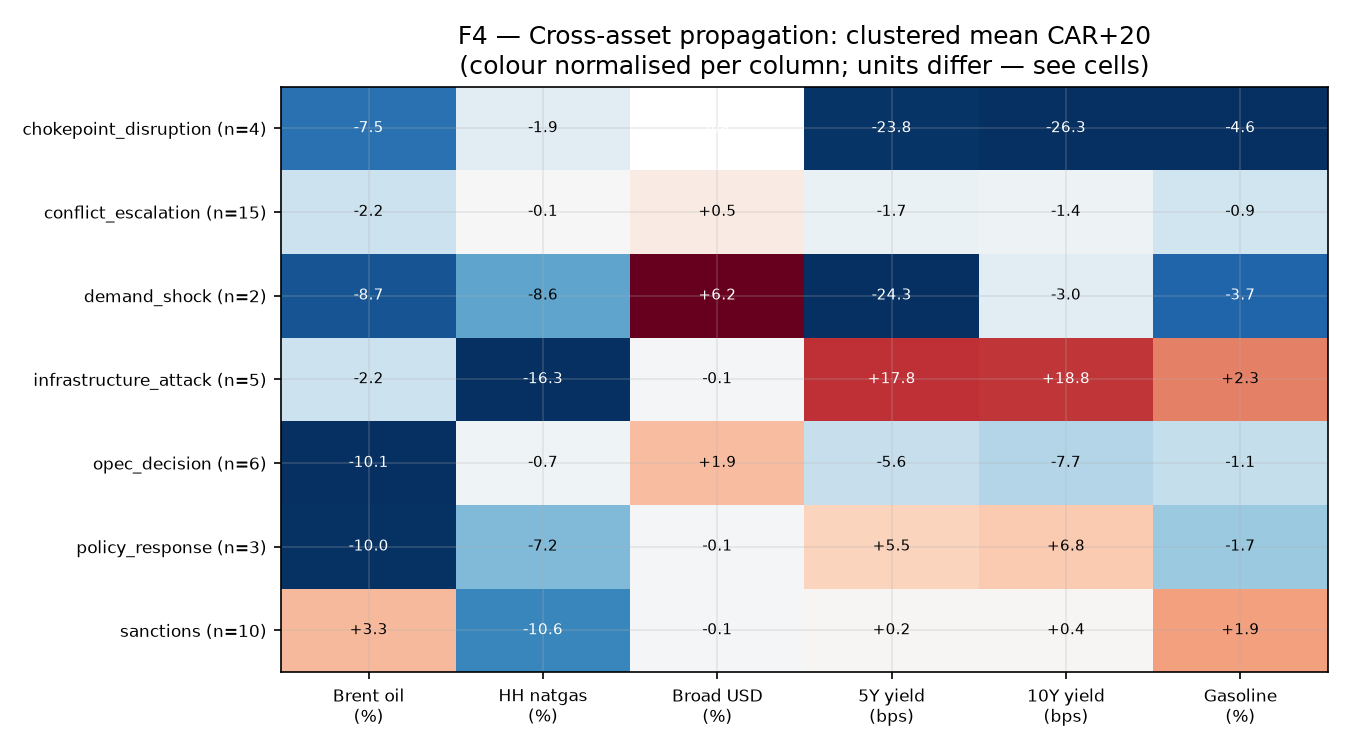
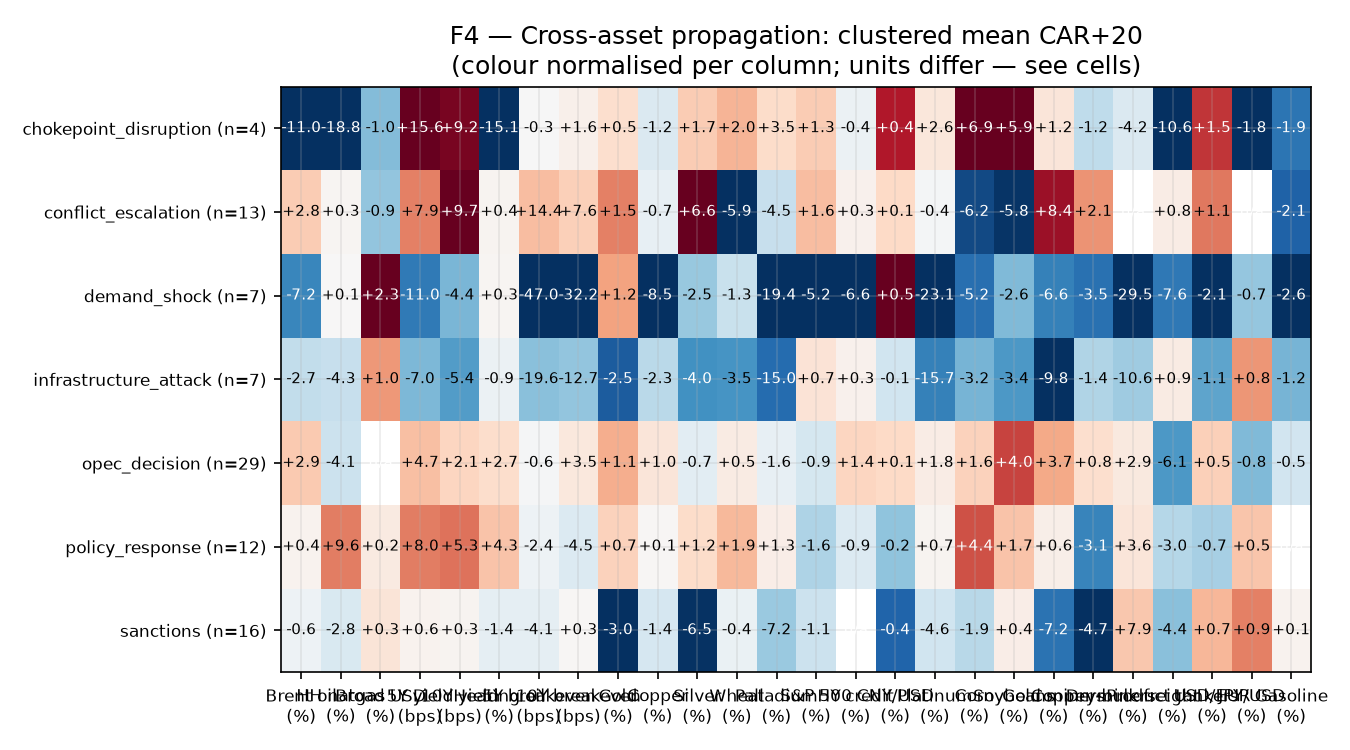
V5.2: repro.sh + DATA_DICTIONARY + figures regenerated for the new scope
repro.sh (now 22 steps): added the deferred V1 value-chain fetch (fuels/petchem/
fertilizer PPIs, TTF, JKM) before derive_signals so the cracks compute, plus the
V1 chain view and the V3 cross-chain battery -- a from-zero rebuild now reproduces
the value-chain + cross-chain numbers too.

DATA_DICTIONARY.md regenerated (data-driven) -- now documents the value-chain
series (cracks, DGASUSGULF, propane, petchem/fertilizer PPIs, TTF, JKM).

figures.py extended to 9: F7 value-chain hop correlation heatmap, F8 corpus growth
curve, F9 calibration reliability plot (static PNGs for reports, alongside the
dashboard's live Plotly versions).

diff --git a/src/figures.py b/src/figures.py
@@ -192,6 +192,68 @@ def f6_policy_vs_conflict(clustered):
     fig.tight_layout(); fig.savefig(FIGDIR / "f6_policy_vs_conflict.png"); plt.close(fig)
 
 
+def f7_chain_heatmap():
+    """V5.2 -- value-chain hop-by-hop correlation heatmap (upstream x downstream), from chain_view.json."""
+    import json
+    hops = json.loads((ROOT / "data" / "chain_view.json").read_text()).get("hops", [])
+    hops = [h for h in hops if h.get("result")]
+    if not hops:
+        return
+    ups = list(dict.fromkeys(h["up_label"] for h in hops))
+    downs = list(dict.fromkeys(h["down_label"] for h in hops))
+    grid = np.full((len(downs), len(ups)), np.nan)
+    for h in hops:
+        grid[downs.index(h["down_label"]), ups.index(h["up_label"])] = h["result"]["corr"]
+    fig, ax = plt.subplots(figsize=(8, 5.5))
+    ax.imshow(grid, cmap="RdBu_r", vmin=-1, vmax=1, aspect="auto")
+    ax.set_xticks(range(len(ups))); ax.set_xticklabels(ups, fontsize=8, rotation=30, ha="right")
+    ax.set_yticks(range(len(downs))); ax.set_yticklabels(downs, fontsize=8)
+    for h in hops:
+        i, j = downs.index(h["down_label"]), ups.index(h["up_label"])
+        ax.text(j, i, f"{h['result']['corr']:+.2f}\n{h['result']['strength'][:4]}", ha="center",
+                va="center", fontsize=7, color="black" if abs(grid[i, j]) < 0.6 else "white")
+    ax.set_title("F7 — Value chain: hop-by-hop return correlation\n"
+                 "(upstream → downstream; cadence per hop in chain_report.txt)")
+    fig.tight_layout(); fig.savefig(FIGDIR / "f7_chain_heatmap.png"); plt.close(fig)
+
+
+def f8_corpus_growth(conn):
+    """V5.2 -- cumulative verified events over time (the corpus accreting)."""
+    dates = [d for (d,) in conn.execute(
+        "SELECT event_date FROM events WHERE event_date IS NOT NULL ORDER BY event_date")]
+    x = [pd.Timestamp(d) for d in dates]
+    fig, ax = plt.subplots(figsize=(8, 4.5))
+    ax.step(x, range(1, len(x) + 1), where="post", color="#2c7fb8", lw=2)
+    ax.set_ylabel("cumulative verified events"); ax.set_xlabel("event date")
+    ax.set_title(f"F8 — Corpus growth ({len(x)} verified events)")
+    ax.grid(alpha=0.3)
+    fig.tight_layout(); fig.savefig(FIGDIR / "f8_corpus_growth.png"); plt.close(fig)
+
+
+def f9_calibration():
+    """V5.2 -- reliability plot from the forecast log (observed vs forecast, vs the perfect diagonal)."""
+    import json
+    p = ROOT / "data" / "calibration_report.json"
+    rep = json.loads(p.read_text()) if p.exists() else {}
+    bins = (rep.get("overall") or {}).get("reliability", []) if rep.get("ran") else []
+    if not bins:
+        return
+    fig, ax = plt.subplots(figsize=(5.5, 5.5))
+    ax.plot([0, 1], [0, 1], ls="--", color="grey", lw=1, label="perfect calibration")
+    ax.plot([b["mean_forecast"] for b in bins], [b["observed"] for b in bins], "-o",
+            color="#2c7fb8", label="engine")
+    for b in bins:
+        ax.annotate(f"n={b['n']}", (b["mean_forecast"], b["observed"]), fontsize=7,
+                    textcoords="offset points", xytext=(5, -8))
+    o = rep.get("overall", {})
+    ax.set_xlim(0, 1); ax.set_ylim(0, 1)
+    ax.set_xlabel("forecast probability"); ax.set_ylabel("observed frequency")
+    ax.set_title(f"F9 — Calibration (n={o.get('n')}, Brier {o.get('brier')}, "
+                 f"skill {o.get('skill_vs_base')})")
+    ax.legend(fontsize=9); ax.grid(alpha=0.3)
+    fig.tight_layout(); fig.savefig(FIGDIR / "f9_calibration.png"); plt.close(fig)
+
+
 def main():
     FIGDIR.mkdir(parents=True, exist_ok=True)
     conn = sqlite3.connect(DB)
@@ -202,6 +264,9 @@ def main():
     f4_propagation_heatmap(conn)
     f5_quiet_vs_corpus(conn, clustered)
     f6_policy_vs_conflict(clustered)
+    f7_chain_heatmap()            # V5.2
+    f8_corpus_growth(conn)        # V5.2
+    f9_calibration()              # V5.2
     conn.close()
     pngs = sorted(p.name for p in FIGDIR.glob("*.png"))
     print(f"Wrote {len(pngs)} figures to {FIGDIR}:")

diff --git a/DATA_DICTIONARY.md b/DATA_DICTIONARY.md
@@ -2,7 +2,18 @@
 
 _Generated from the live schema of `data/oil.db` by `src/data_dictionary.py` — not hand-typed, so it cannot drift from the actual database._
 
-## `edges` — 292 rows
+## `belief_state` — 3 rows
+
+| column | type | not null | pk |
+|---|---|---|---|
+| variable_id | TEXT |  | yes |
+| value | REAL |  |  |
+| as_of | TEXT |  |  |
+| status | TEXT |  |  |
+| method | TEXT |  |  |
+| updated_at | TEXT |  |  |
+
+## `edges` — 7,909 rows
 
 | column | type | not null | pk |
 |---|---|---|---|
@@ -21,7 +32,7 @@ _Generated from the live schema of `data/oil.db` by `src/data_dictionary.py` —
 | units | TEXT |  |  |
 | n_days | INTEGER |  |  |
 
-## `entities` — 32 rows
+## `entities` — 122 rows
 
 | column | type | not null | pk |
 |---|---|---|---|
@@ -30,7 +41,7 @@ _Generated from the live schema of `data/oil.db` by `src/data_dictionary.py` —
 | name | TEXT | yes |  |
 | notes | TEXT |  |  |
 
-## `event_entities` — 154 rows
+## `event_entities` — 664 rows
 
 | column | type | not null | pk |
 |---|---|---|---|
@@ -38,7 +49,7 @@ _Generated from the live schema of `data/oil.db` by `src/data_dictionary.py` —
 | entity_id | TEXT | yes | yes |
 | role | TEXT |  | yes |
 
-## `events` — 52 rows
+## `events` — 293 rows
 
 | column | type | not null | pk |
 |---|---|---|---|
@@ -54,7 +65,7 @@ _Generated from the live schema of `data/oil.db` by `src/data_dictionary.py` —
 | added_at | TEXT |  |  |
 | surprise | INTEGER |  |  |
 
-## `forecasts` — 0 rows
+## `forecasts` — 4 rows
 
 | column | type | not null | pk |
 |---|---|---|---|
@@ -69,7 +80,36 @@ _Generated from the live schema of `data/oil.db` by `src/data_dictionary.py` —
 | outcome | INTEGER |  |  |
 | notes | TEXT |  |  |
 
-## `observations` — 219,286 rows
+## `gaps` — 245 rows
+
+| column | type | not null | pk |
+|---|---|---|---|
+| gap_id | TEXT |  | yes |
+| as_of | TEXT |  |  |
+| anchor_date | TEXT |  |  |
+| subject | TEXT |  |  |
+| engine_call | TEXT |  |  |
+| engine_p | REAL |  |  |
+| priced_ovx | REAL |  |  |
+| priced_ovx_pct | REAL |  |  |
+| gap_direction | TEXT |  |  |
+| horizon_days | INTEGER |  |  |
+| outcome | INTEGER |  |  |
+| brier | REAL |  |  |
+| resolved_at | TEXT |  |  |
+| source_url | TEXT |  |  |
+| notes | TEXT |  |  |
+
+## `library` — 292 rows
+
+| column | type | not null | pk |
+|---|---|---|---|
+| event_id | TEXT |  | yes |
+| event_date | TEXT |  |  |
+| signature | TEXT |  |  |
+| mag_pp | REAL |  |  |
+
+## `observations` — 463,714 rows
 
 | column | type | not null | pk |
 |---|---|---|---|
@@ -79,13 +119,29 @@ _Generated from the live schema of `data/oil.db` by `src/data_dictionary.py` —
 | as_of | TEXT |  | yes |
 | retrieved_at | TEXT |  |  |
 
-## `prices` — 20,142 rows
+## `prices` — 20,152 rows
 
 | column | type | not null | pk |
 |---|---|---|---|
 | date | TIMESTAMP |  |  |
 | price | REAL |  |  |
 | commodity | TEXT |  |  |
+
+## `propagation_edges` — 232 rows
+
+| column | type | not null | pk |
+|---|---|---|---|
+| edge_id | TEXT |  | yes |
+| kind | TEXT |  |  |
+| from_node | TEXT |  |  |
+| to_node | TEXT |  |  |
+| lag | TEXT |  |  |
+| strength | REAL |  |  |
+| ci_lo | REAL |  |  |
+| ci_hi | REAL |  |  |
+| perm_p | REAL |  |  |
+| status | TEXT |  |  |
+| mechanism | TEXT |  |  |
 
 ## `quiet_events` — 6 rows
 
@@ -123,7 +179,7 @@ _Generated from the live schema of `data/oil.db` by `src/data_dictionary.py` —
 | error | REAL |  |  |
 | notes | TEXT |  |  |
 
-## `series` — 213 rows
+## `series` — 384 rows
 
 | column | type | not null | pk |
 |---|---|---|---|
@@ -136,7 +192,22 @@ _Generated from the live schema of `data/oil.db` by `src/data_dictionary.py` —
 | source_url | TEXT |  |  |
 | notes | TEXT |  |  |
 
-## `situation_log` — 71 rows
+## `signals` — 7 rows
+
+| column | type | not null | pk |
+|---|---|---|---|
+| signal_id | TEXT |  | yes |
+| name | TEXT |  |  |
+| mechanism | TEXT |  |  |
+| method | TEXT |  |  |
+| inputs | TEXT |  |  |
+| oos_metric | TEXT |  |  |
+| oos_value | REAL |  |  |
+| status | TEXT |  |  |
+| evidence | TEXT |  |  |
+| updated_at | TEXT |  |  |
+
+## `situation_log` — 553 rows
 
 | column | type | not null | pk |
 |---|---|---|---|
@@ -159,30 +230,71 @@ _Generated from the live schema of `data/oil.db` by `src/data_dictionary.py` —
 | series_id | unit | frequency | source |
 |---|---|---|---|
 | `cftc.mm_net_wti` | contracts | weekly | CFTC |
+| `derived.be_level` | percentile | daily | derived (this repo) |
 | `derived.brent_vol20` | percent | daily | derived (this repo) |
 | `derived.brent_wti_spread` | USD/bbl | daily | derived (this repo) |
 | `derived.brent_wti_spread_z` | sigma | daily | derived (this repo) |
+| `derived.conflict_intensity_pct` | percentile | daily | derived (this repo) |
 | `derived.cot_pct` | percentile | daily | derived (this repo) |
+| `derived.credit_stress` | percentile | daily | derived (this repo) |
 | `derived.curve_2s10s` | percentage points | daily | derived (this repo) |
+| `derived.diesel_crack` | USD/bbl | daily | derived (this repo) |
+| `derived.gasoline_crack` | USD/bbl | daily | derived (this repo) |
 | `derived.inv_sigma` | sigma | daily | derived (this repo) |
+| `derived.ovx_pct` | percentile | daily | derived (this repo) |
+| `derived.real_rate` | percentile | daily | derived (this repo) |
 | `derived.usd_z` | sigma | daily | derived (this repo) |
 | `derived.vix_pct` | percentile | daily | derived (this repo) |
 | `eia.crude_stocks_xspr` | thousand bbl | weekly | EIA |
 | `eia.cushing_stocks` | thousand bbl | weekly | EIA |
 | `eia.refinery_util` | percent | weekly | EIA |
 | `eia.spr_stocks` | thousand bbl | weekly | EIA |
+| `fred.BAMLH0A0HYM2` | percent | daily | FRED |
 | `fred.DCOILBRENTEU` | USD/bbl | daily | FRED |
 | `fred.DCOILWTICO` | USD/bbl | daily | FRED |
+| `fred.DEXCHUS` | CNY/USD | daily | FRED |
+| `fred.DEXJPUS` | JPY/USD | daily | FRED |
+| `fred.DEXUSEU` | USD/EUR | daily | FRED |
+| `fred.DFII10` | percent | daily | FRED |
+| `fred.DGASUSGULF` | USD/gal | daily | FRED |
 | `fred.DGS10` | percent | daily | FRED |
 | `fred.DGS2` | percent | daily | FRED |
 | `fred.DGS5` | percent | daily | FRED |
 | `fred.DHHNGSP` | USD/MMBtu | daily | FRED |
+| `fred.DHOILNYH` | USD/gal | daily | FRED |
+| `fred.DPROPANEMBTX` | USD/gal | daily | FRED |
 | `fred.DTWEXBGS` | index | daily | FRED |
 | `fred.GASREGW` | USD/gallon | weekly | FRED |
+| `fred.OVXCLS` | index | daily | FRED |
+| `fred.PCU325211325211` | index | monthly | FRED |
+| `fred.PCU325311325311` | index | monthly | FRED |
+| `fred.SP500` | index | daily | FRED |
+| `fred.T10YIE` | percent | daily | FRED |
+| `fred.T5YIE` | percent | daily | FRED |
 | `fred.VIXCLS` | index | daily | FRED |
+| `gdelt.tone.hormuz` | tone | daily | GDELT DOC |
+| `gdelt.tone.opec` | tone | daily | GDELT DOC |
 | `gpr.GPRD` | index | daily | Caldara & Iacoviello, Geopolitical Risk index (matteoiacoviello.com) |
 | `gpr.GPRD_ACT` | index | daily | Caldara & Iacoviello, Geopolitical Risk index (matteoiacoviello.com) |
 | `gpr.GPRD_THREAT` | index | daily | Caldara & Iacoviello, Geopolitical Risk index (matteoiacoviello.com) |
+| `imf.breakeven.algeria` | USD/bbl | yearly | IMF REO (via FRED) |
+| `imf.breakeven.iran` | USD/bbl | yearly | IMF REO (via FRED) |
+| `imf.breakeven.iraq` | USD/bbl | yearly | IMF REO (via FRED) |
+| `imf.breakeven.kazakhstan` | USD/bbl | yearly | IMF REO (via FRED) |
+| `imf.breakeven.kuwait` | USD/bbl | yearly | IMF REO (via FRED) |
+| `imf.breakeven.oman` | USD/bbl | yearly | IMF REO (via FRED) |
+| `imf.breakeven.qatar` | USD/bbl | yearly | IMF REO (via FRED) |
+| `imf.breakeven.saudi_arabia` | USD/bbl | yearly | IMF REO (via FRED) |
+| `imf.breakeven.uae` | USD/bbl | yearly | IMF REO (via FRED) |
+| `live.brent` | USD/bbl | daily | Yahoo (yfinance) |
+| `live.dxy` | index | daily | Yahoo (yfinance) |
+| `live.gold` | USD/oz | daily | Yahoo (yfinance) |
+| `live.natgas` | USD/MMBtu | daily | Yahoo (yfinance) |
+| `live.sp500` | index | daily | Yahoo (yfinance) |
+| `live.us10y` | percent | daily | Yahoo (yfinance) |
+| `live.vix` | index | daily | Yahoo (yfinance) |
+| `live.wti` | USD/bbl | daily | Yahoo (yfinance) |
+| `live.xle` | USD | daily | Yahoo (yfinance) |
 | `portwatch.bab_el_mandeb.capacity_tanker` | dwt | daily | IMF PortWatch |
 | `portwatch.bab_el_mandeb.n_tanker` | count | daily | IMF PortWatch |
 | `portwatch.cape_of_good_hope.capacity_tanker` | dwt | daily | IMF PortWatch |
@@ -191,10 +303,32 @@ _Generated from the live schema of `data/oil.db` by `src/data_dictionary.py` —
 | `portwatch.hormuz.n_tanker` | count | daily | IMF PortWatch |
 | `portwatch.suez.capacity_tanker` | dwt | daily | IMF PortWatch |
 | `portwatch.suez.n_tanker` | count | daily | IMF PortWatch |
+| `ucdp.fat_africa` | fatalities (best est.) | monthly | UCDP GED (Uppsala) |
+| `ucdp.fat_americas` | fatalities (best est.) | monthly | UCDP GED (Uppsala) |
+| `ucdp.fat_asia` | fatalities (best est.) | monthly | UCDP GED (Uppsala) |
+| `ucdp.fat_europe` | fatalities (best est.) | monthly | UCDP GED (Uppsala) |
+| `ucdp.fat_global` | fatalities (best est.) | monthly | UCDP GED (Uppsala) |
+| `ucdp.fat_middle_east` | fatalities (best est.) | monthly | UCDP GED (Uppsala) |
 | `wiki.views.aramco` | views | daily | Wikimedia |
 | `wiki.views.bab_el_mandeb` | views | daily | Wikimedia |
 | `wiki.views.hormuz` | views | daily | Wikimedia |
 | `wiki.views.houthis` | views | daily | Wikimedia |
 | `wiki.views.iran_war` | views | daily | Wikimedia |
 | `wiki.views.suez` | views | daily | Wikimedia |
-| `predmkt.*` (174 live markets) | probability | daily | Polymarket |
+| `yf.copper` | USD/lb | daily | Yahoo (yfinance) |
+| `yf.copper_miners` | USD | daily | Yahoo (yfinance) |
+| `yf.corn` | USc/bu | daily | Yahoo (yfinance) |
+| `yf.freight` | USD | daily | Yahoo (yfinance) |
+| `yf.gold` | USD/oz | daily | Yahoo (yfinance) |
+| `yf.hyg` | USD | daily | Yahoo (yfinance) |
+| `yf.jkm` | USD/MMBtu | daily | Yahoo (yfinance) |
+| `yf.miners` | USD | daily | Yahoo (yfinance) |
+| `yf.palladium` | USD/oz | daily | Yahoo (yfinance) |
+| `yf.platinum` | USD/oz | daily | Yahoo (yfinance) |
+| `yf.silver` | USD/oz | daily | Yahoo (yfinance) |
+| `yf.soybean` | USc/bu | daily | Yahoo (yfinance) |
+| `yf.sp500` | index | daily | Yahoo (yfinance) |
+| `yf.tankers` | USD | daily | Yahoo (yfinance) |
+| `yf.ttf` | EUR/MWh | daily | Yahoo (yfinance) |
+| `yf.wheat` | USc/bu | daily | Yahoo (yfinance) |
+| `predmkt.*` (282 live markets) | probability | daily | Polymarket |
